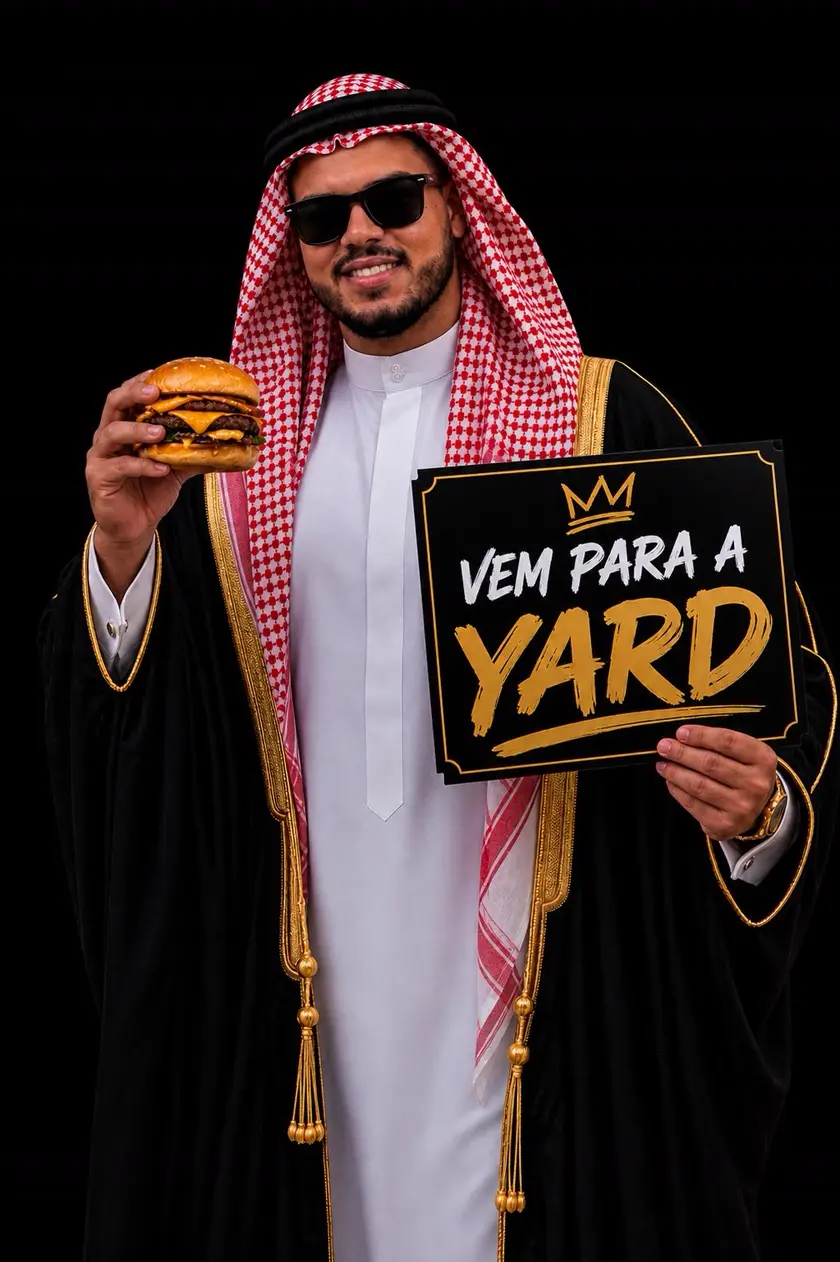
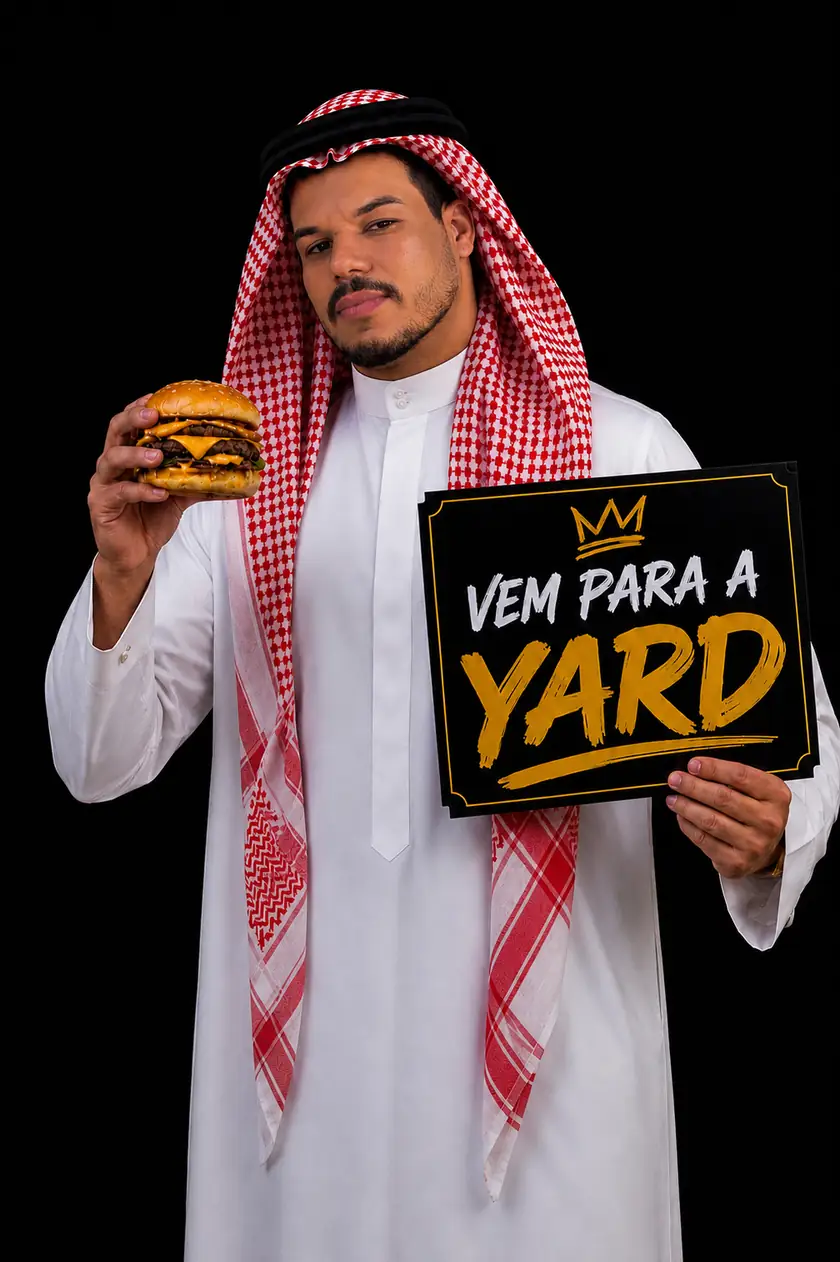
feat(diferenciais): par novo de fotos das pessoas, e ele DEVOLVE peso
Material entregue pelo dono para substituir o par anterior, que era mais escuro
e tinha o produto pequeno. Nas duas novas o hambúrguer aparece com nitidez, e o
fundo de estúdio continua sendo o mesmo preto que serve de carvão à marca.

O LADO DE CADA UMA É COMPOSIÇÃO, NÃO ORDEM DE ARQUIVO. As duas têm direção: na
foto da placa o cartaz fica à direita do homem; na do convite a mão estendida
aponta para a esquerda dele. Com a placa à ESQUERDA e o convite à DIREITA, os
dois gestos apontam para o miolo da seção — para o texto. Invertidas,
apontariam para fora da tela e empurrariam o olho para longe da leitura. Isso
ficou anotado no copy.json, porque é o tipo de decisão que a próxima pessoa
desfaz sem saber que existia.

QUALIDADE 68 E NÃO 80, e o número saiu do orçamento. A folga da rota era de
~1 kB, então o par novo precisava caber no peso do par que substituía. Medido no
par de 620, que é o que um aparelho DPR3 baixa: q80 daria 103.576 bytes contra
os 86.806 do material anterior — estouraria. q68 dá 81.330.

São 5,4 kB DEVOLVIDOS ao orçamento, não gastos. Foto de estúdio com fundo preto
liso é onde o webp mais rende: quase metade do quadro é uma cor só. Peso total
da rota depois da troca: 1.493.375 bytes contra teto de 1,5 MB — a folga subiu
de 1.143 para 6.625.

O ENQUADRAMENTO DO DESKTOP FOI RECALIBRADO, porque os números da foto anterior
não valem para estas. Medido em 1440x900: a coluna fica 224x777, razão 0,29
[…]

diff --git a/assets/prompts.md b/assets/prompts.md
@@ -804,3 +804,43 @@ node -e "const s=require('sharp');(async()=>{const src='assets/hero/take-vertica
 s(src).resize({width:800,kernel:'lanczos3'}).avif({quality:44,effort:6}).toFile('public/assets/hero-vertical.avif');
 s(src).resize({width:800,kernel:'lanczos3'}).webp({quality:58,effort:6}).toFile('public/assets/hero-vertical.webp');})()"
 ```
+
+---
+
+## 2026-09-02 — par novo de fotos das pessoas (material do cliente)
+
+- **Gerado por:** ninguém — material entregue pelo dono
+- **Custo:** 0 crédito
+- **Origem:** `referencia/pessoas/placa.png` (1023×1537) e `convite.png` (1024×1536)
+- **Saída:** `public/assets/pessoas/pessoa-{placa,convite}-{420,620,840}.webp`
+
+Substituem o par anterior (`pessoa-cocacola` e `pessoa-placa`), que era mais
+escuro e tinha o produto pequeno. As duas novas mostram o hambúrguer com
+nitidez e têm o mesmo fundo preto de estúdio — o mesmo carvão da marca.
+
+**O lado de cada uma é composição, não ordem de arquivo.** As duas têm direção:
+na `placa` o cartaz fica à direita do homem; na `convite` a mão estendida aponta
+para a esquerda dele. Com a placa à ESQUERDA e o convite à DIREITA, os dois
+gestos apontam para o miolo da seção — para o texto. Invertidas, apontariam para
+fora da tela.
+
+**Qualidade 68 e não 80, e o número saiu do orçamento.** A folga da rota era de
+~1 kB, então o par novo precisava caber no peso do par que substituía. Medido no
+par de 620 (o que um DPR3 baixa):
+
+| qualidade | par de 620 |
+|---|---:|
+| 80 | 103.576 |
+| 74 | 86.652 |
+| **68** | **81.330** |
+| anterior no ar | 86.806 |
+
+Ou seja: **5,4 kB devolvidos** ao orçamento, não gastos. Foto de estúdio com
+fundo preto liso é o caso em que o webp mais rende — quase metade do quadro é
+uma cor só. Peso total da rota depois da troca: 1.493.375 bytes, folga de 6.625.
+
+Reproduzir: `node squads/yard-burguer-squad/scripts/preparar-fotos-pessoas.mjs`
+
+**O script não recorta, só reamostra.** A proporção nativa é 2:3 e o CSS do
+celular usa exatamente essa, então o `cover` não tem o que cortar. Recortar aqui
+reintroduziria o defeito consertado hoje de manhã — produto decepado na borda.
